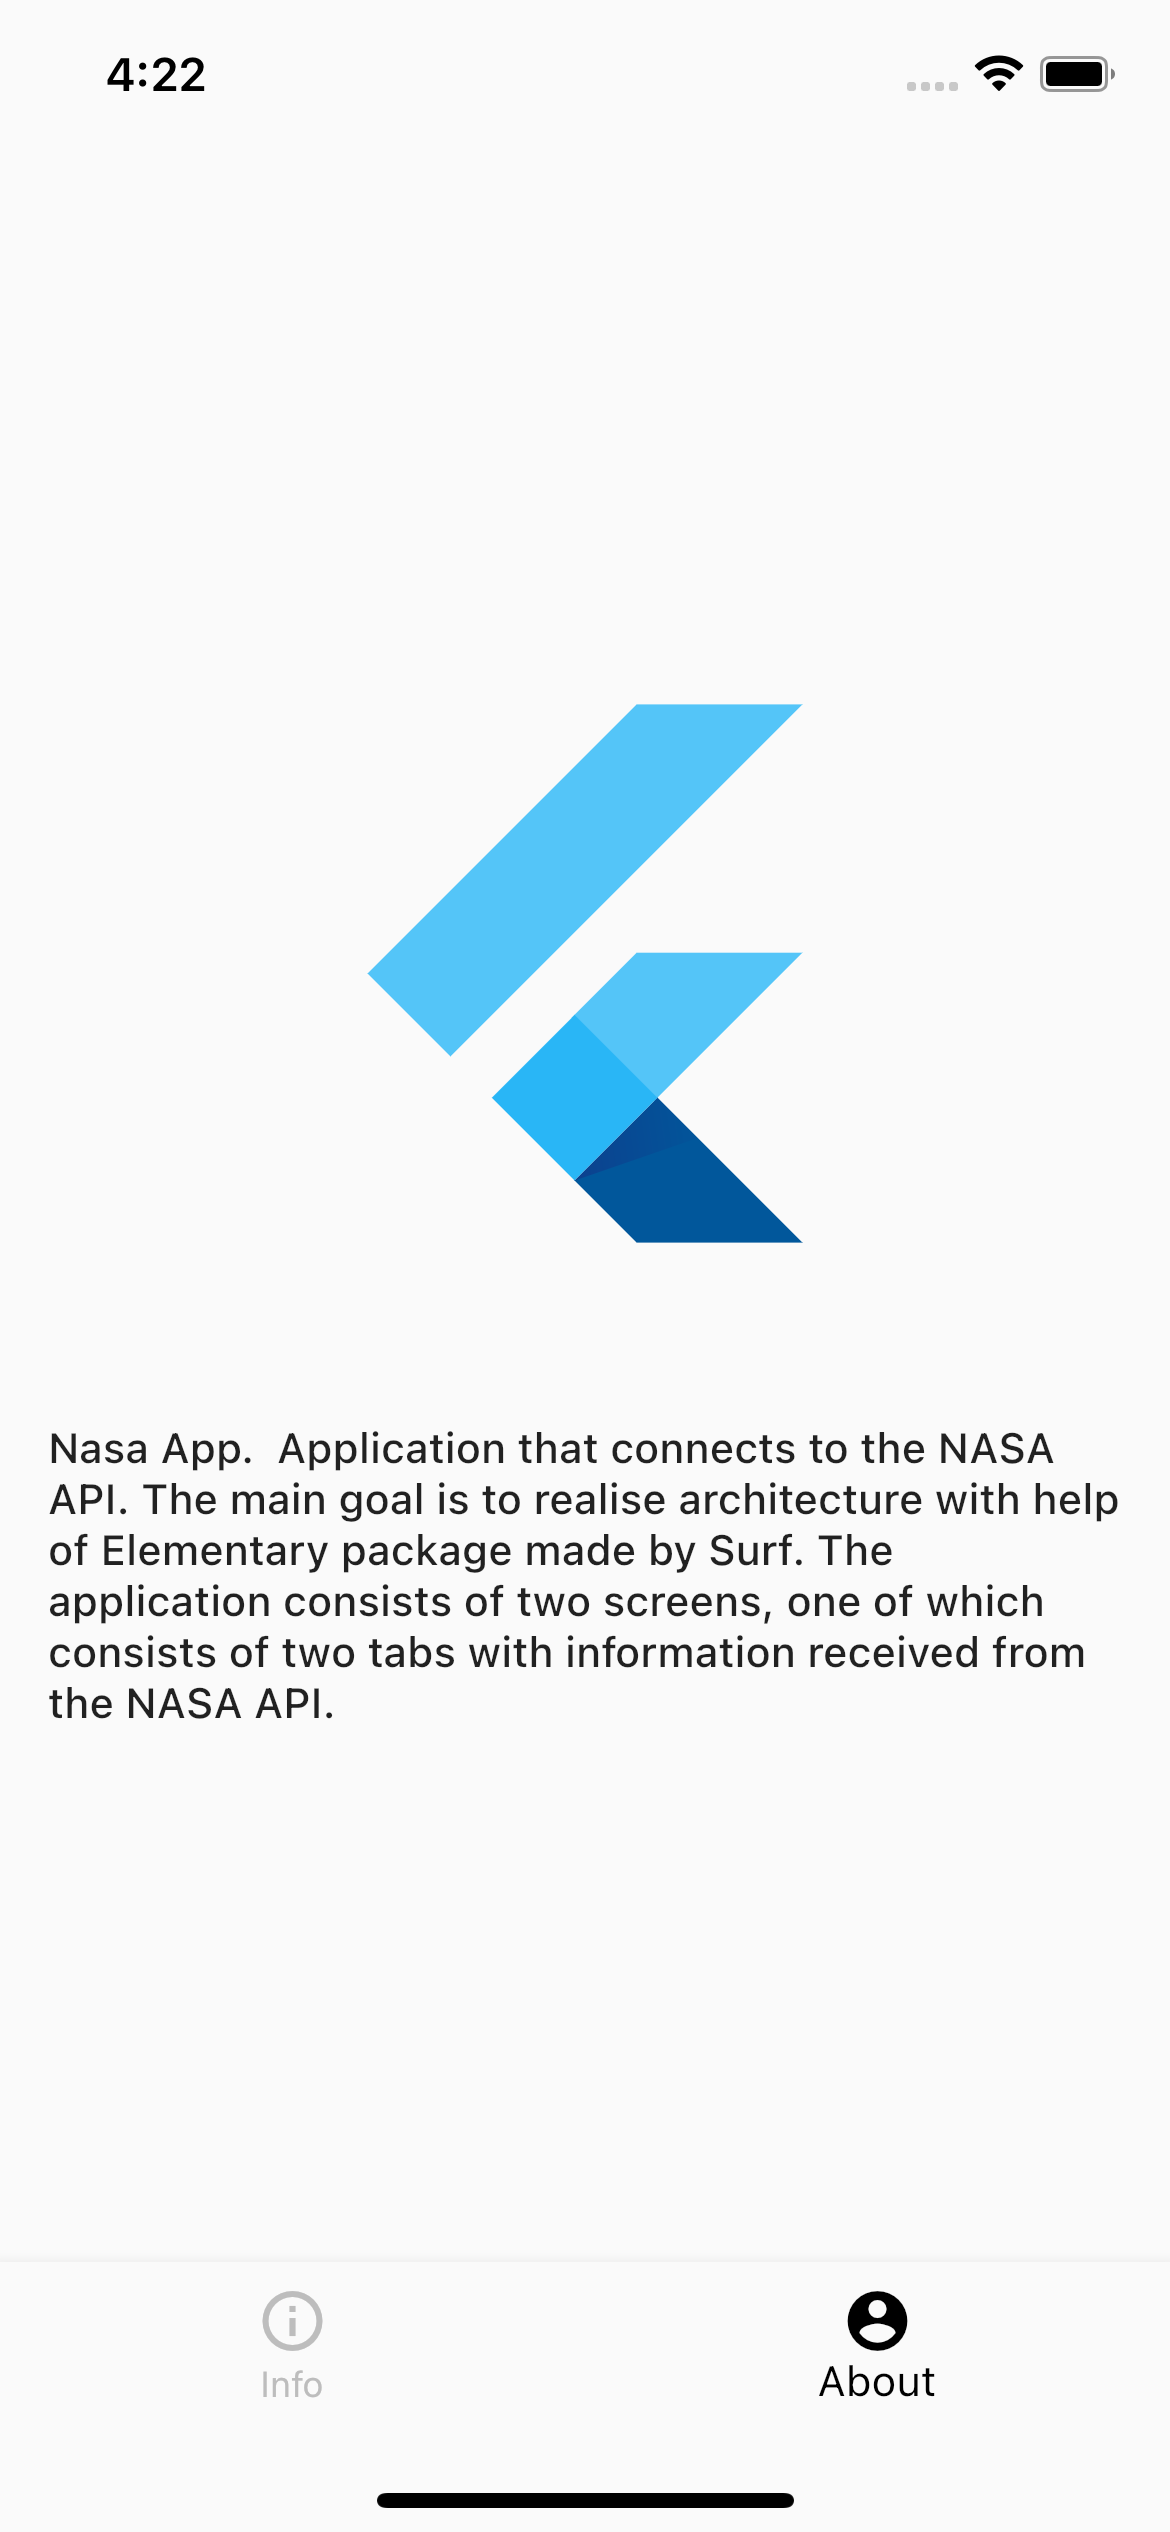
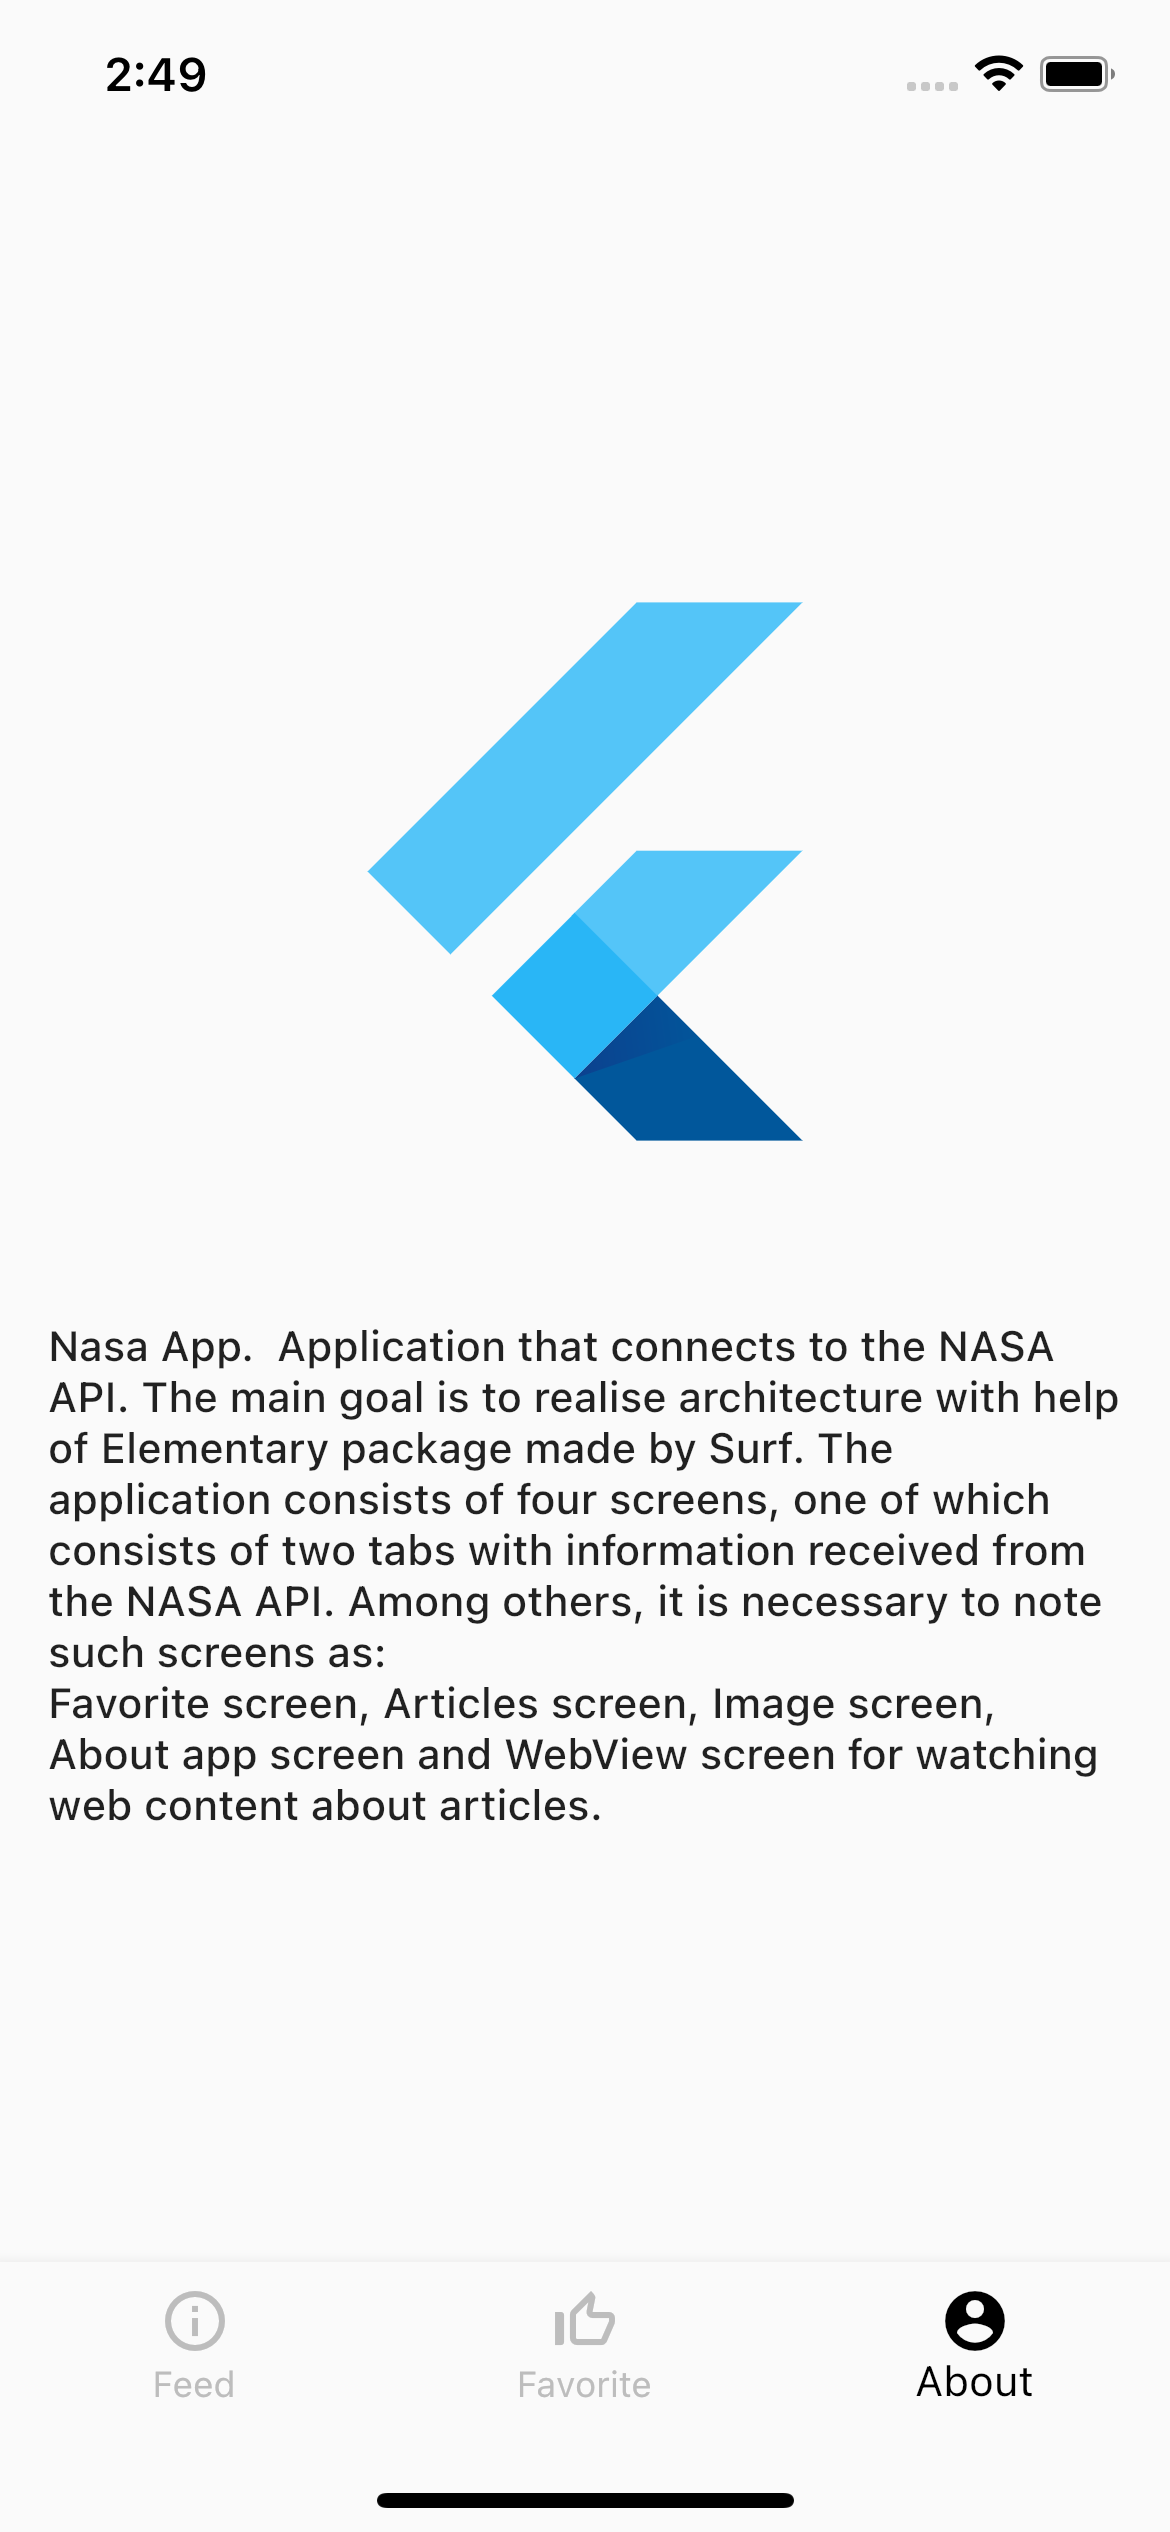
update readme and about screen information

diff --git a/lib/nasa_app.dart b/lib/nasa_app.dart
@@ -10,6 +10,7 @@ class NasaApp extends StatelessWidget {
   @override
   Widget build(BuildContext context) {
     return MaterialApp(
+      debugShowCheckedModeBanner: false,
       title: 'NASA API app',
       theme: ThemeData(
         progressIndicatorTheme:

diff --git a/README.md b/README.md
@@ -7,14 +7,20 @@ An application which realized architecture with help of Elementary package
 
 ## General info
 
-Nasa App. Application that connects to the NASA API. The main goal is to realise architecture with
-help of Elementary package made by Surf. The application consists of two screens, one of which
-consists of two tabs with information received from the NASA API.
+Nasa App. Application that connects to the [NASA API](https://api.nasa.gov/) and [SpaceFlightNews API](https://www.spaceflightnewsapi.net/).
+The main goal is to realise architecture with
+help of Elementary package made by Surf. The application consists of four screens, one of which
+consists of two tabs with information received from the NASA API. Among others, it is necessary to note such screens as:
+Favorite screen, Articles screen, Image screen, About app screen and WebView screen for watching web content about articles.
 
 ## Screenshots
 
 <p float="left">
 	<img src="./screenshots/first_tab.png" alt="Picture of the day" width="250">
 	<img src="./screenshots/second_tab.png" alt="Photos from Mars" width="250">
+	<img src="./screenshots/articles_screen.png" alt="About screen" width="250">
+	<img src="./screenshots/article_screen.png" alt="About screen" width="250">
+	<img src="./screenshots/favorite_screen.png" alt="About screen" width="250">
+	<img src="./screenshots/image_screen.png" alt="About screen" width="250">
 	<img src="./screenshots/about_screen.png" alt="About screen" width="250">
 </p>
